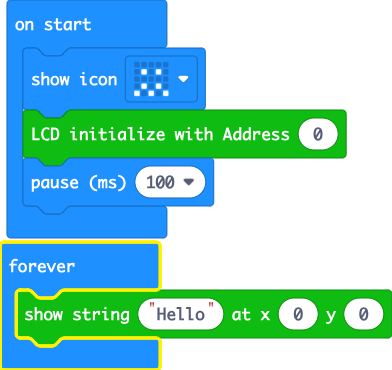
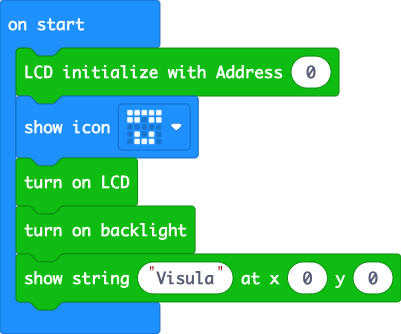
Update main.blocks, main.ts

diff --git a/main.ts b/main.ts
@@ -1,6 +1,5 @@
-basic.showIcon(IconNames.Confused)
 I2C_LCD1602.LcdInit(0)
-basic.pause(100)
-basic.forever(function () {
-    I2C_LCD1602.ShowString("Hello", 0, 0)
-})
+basic.showIcon(IconNames.Fabulous)
+I2C_LCD1602.on()
+I2C_LCD1602.BacklightOn()
+I2C_LCD1602.ShowString("Visula", 0, 0)
